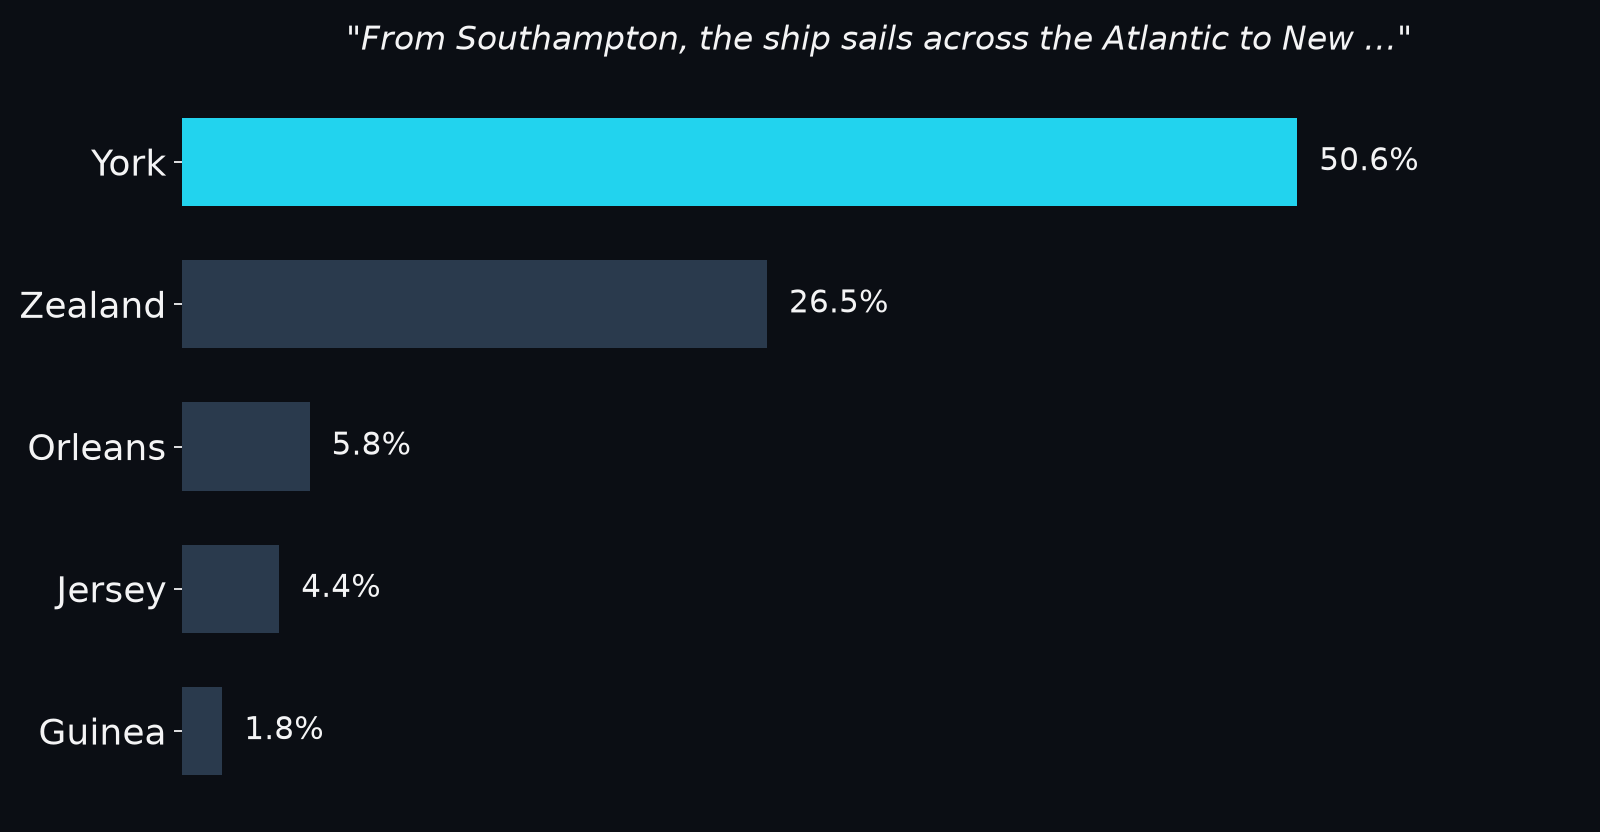
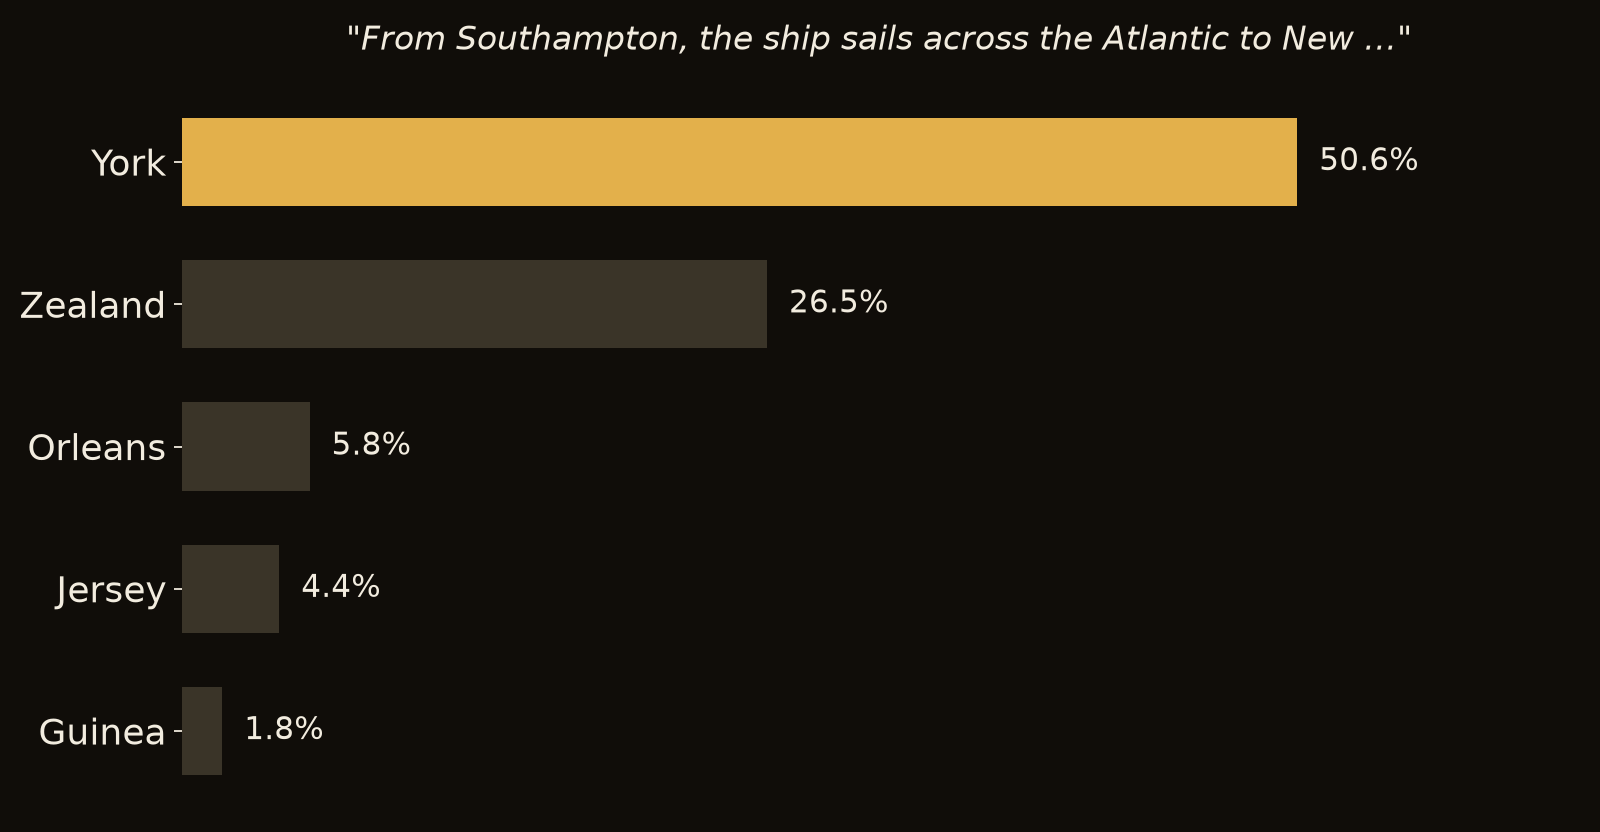
style(deck): warm amber palette + conference-size type; trim copy to fit
Claude-Session: https://claude.ai/code/session_01VjLUBXns3MZL4iHGtcKJqR

diff --git a/style.css b/style.css
@@ -10,19 +10,19 @@
 @import '@fontsource/inter/latin-600.css';
 
 :root {
-  --talk-accent: #22d3ee;
-  --ink: #eceff4;
-  --ink-dim: #8b95a3;
-  --hairline: rgba(236, 239, 244, 0.16);
+  --talk-accent: #e3b04b;
+  --ink: #f2ecdf;
+  --ink-dim: #9a917f;
+  --hairline: rgba(242, 236, 223, 0.16);
 }
 
 .slidev-layout {
   font-family: 'Inter', sans-serif;
   background:
-    radial-gradient(1px 1px at 14% 22%, rgba(236, 239, 244, 0.16) 50%, transparent 51%),
-    radial-gradient(1px 1px at 82% 16%, rgba(236, 239, 244, 0.12) 50%, transparent 51%),
-    radial-gradient(1px 1px at 62% 78%, rgba(34, 211, 238, 0.12) 50%, transparent 51%),
-    radial-gradient(ellipse at 50% -10%, #131926 0%, #0b0e14 55%, #090b10 100%);
+    radial-gradient(1px 1px at 14% 22%, rgba(245, 239, 228, 0.14) 50%, transparent 51%),
+    radial-gradient(1px 1px at 82% 16%, rgba(245, 239, 228, 0.10) 50%, transparent 51%),
+    radial-gradient(1px 1px at 62% 78%, rgba(227, 176, 75, 0.14) 50%, transparent 51%),
+    radial-gradient(ellipse at 50% -10%, #1a1610 0%, #100d09 55%, #0b0907 100%);
   color: var(--ink);
   padding: 3.4rem 3.8rem;
 }
@@ -30,7 +30,7 @@
 .slidev-layout h1 {
   font-family: 'Fraunces', serif;
   font-weight: 600;
-  font-size: 2.7rem;
+  font-size: 3.3rem;
   line-height: 1.12;
   letter-spacing: -0.01em;
   color: var(--ink);
@@ -48,7 +48,7 @@
 
 /* kicker — small caps line above the title */
 .kicker {
-  font-size: 0.78rem;
+  font-size: 0.92rem;
   font-weight: 600;
   letter-spacing: 0.32em;
   text-transform: uppercase;
@@ -110,7 +110,7 @@
   bottom: 6rem;
   border: 1px solid var(--talk-accent);
   border-radius: 0.6rem 0.6rem 0.1rem 0.6rem;
-  background: rgba(34, 211, 238, 0.05);
+  background: rgba(227, 176, 75, 0.06);
   padding: 0.5rem 0.9rem;
   font-size: 0.92rem;
   font-style: italic;
@@ -172,10 +172,10 @@
   text-transform: uppercase;
 }
 .ring.guard {
-  border: 1px dashed rgba(244, 211, 100, 0.5);
+  border: 1px dashed rgba(140, 190, 220, 0.5);
 }
 .ring.guard > .ring-label {
-  color: #f4d364;
+  color: #8cbedc;
 }
 .ring.harness {
   border: 1px solid var(--hairline);
@@ -186,7 +186,7 @@
 }
 .ring.engine {
   border: 1px solid var(--talk-accent);
-  background: rgba(34, 211, 238, 0.06);
+  background: rgba(227, 176, 75, 0.07);
   margin-top: 0.9rem;
   text-align: center;
   font-family: 'Fraunces', serif;
@@ -226,3 +226,15 @@
   color: var(--ink-dim);
   opacity: 0.7;
 }
+
+
+/* conference legibility — scale up common text sizes */
+.slidev-layout .text-lg { font-size: 1.35rem; line-height: 1.5; }
+.slidev-layout .text-xl { font-size: 1.55rem; line-height: 1.45; }
+.slidev-layout .text-2xl { font-size: 1.95rem; line-height: 1.4; }
+.slidev-layout .text-3xl { font-size: 2.5rem; }
+.slidev-layout .text-base { font-size: 1.2rem; }
+.slidev-layout .text-sm { font-size: 1.05rem; }
+.rows > * { padding: 0.8rem 0; }
+.round-timer { font-size: 6rem; }
+.credit { font-size: 0.72rem; }

diff --git a/slides.md b/slides.md
@@ -117,7 +117,7 @@ During each section,<br>**write down at least one question:**
 <div class="rows mt-4">
 <div>something you <b>don't understand</b></div>
 <div>something that makes you <b>wonder</b></div>
-<div>something you want to <b>know more</b> about</div>
+<div>something you want to <b>know more</b> of</div>
 </div>
 
 <div class="mt-4 accent">it can be anything.</div>
@@ -635,7 +635,7 @@ That's the "built on our written world" part. Three steps.
 <div class="rows text-lg max-w-3xl">
   <div>the raw material: the public web · books · articles · code</div>
   <div class="accent"><b>"well over 100,000 years of nonstop reading, around the clock"</b></div>
-  <div v-click>what it read is what it learned <span class="dim">— bias rides in with the data<br>(and: whose text was this? — the ethical question in the courts right now)</span></div>
+  <div v-click>what it read is what it learned <span class="dim">— bias rides in with the data (whose text was it? — now in court)</span></div>
   <div v-click>the exact mix is a <b>trade secret</b> — one training run: <b>$78M – $490M</b></div>
 </div>
 
@@ -669,11 +669,10 @@ train — per model.
 
 <div class="grid grid-cols-[3fr_2fr] gap-10 items-start">
 <div class="rows text-lg">
-  <div>start with <b>random</b> numbers → billions of tiny corrections</div>
-  <div class="dim italic">"a machine with billions of dials — training is the machine turning its <b>own</b> dials, a tiny nudge per example"</div>
+  <div>start with <b>random</b> numbers → billions of nudges</div>
+  <div class="dim italic">"the machine turns its <b>own</b> billions of dials, a nudge per example"</div>
   <div v-click>nobody programs the numbers in → <b class="accent">machine learning</b></div>
-  <div v-click>it kept the <b>patterns, not the pages</b> · every run ends up slightly different</div>
-  <div v-click>only possible in parallel → GPUs, data centers</div>
+  <div v-click>it kept the <b>patterns, not the pages</b> · GPUs, data centers</div>
 </div>
 <img :src="'/photos/dials.jpg'" class="photo h-44 w-full mt-2" />
 </div>
@@ -860,9 +859,9 @@ magic after all.
 
 **the riverbed**
 
-<img :src="'/photos/riverbed.jpg'" class="photo h-36 w-full my-3" />
+<img :src="'/photos/riverbed.jpg'" class="photo h-32 w-full my-3" />
 
-training carves the riverbed — every answer is new water,<br>and water <i>always</i> finds a way down
+training carves the riverbed —<br>new water <i>always</i> finds a way down
 
 <div class="accent mt-3 text-xl" style="font-family:'Fraunces',serif;">plausible ≠ true</div>
 
@@ -872,10 +871,9 @@ training carves the riverbed — every answer is new water,<br>and water <i>alwa
 **…and it rolls dice**
 
 sometimes a less likely word wins<br>
-<span class="dim">(the knob is called temperature)</span>
+<span class="dim">(the knob: temperature)</span>
 
-training made the models differ from <i>each other</i> —<br>
-the dice make the <i>same</i> model answer differently each time
+training made the models differ from <i>each other</i> —<br>the dice make the <i>same</i> model vary
 
 </div>
 </div>
@@ -1020,9 +1018,9 @@ wheel is always in your hands.
 
 <div class="grid grid-cols-[3fr_2fr] gap-10 items-start">
 <div class="rows text-lg">
-  <div>Claude the chat app & Claude Code — <b>same model behind</b> <span class="dim">· same for ChatGPT and everything built on GPT</span></div>
+  <div>Claude chat & Claude Code — <b>same model behind</b> <span class="dim">(ChatGPT: same trick)</span></div>
   <div v-click>most "AI startups" = a new car around someone else's engine <span class="dim">(a wrapper)</span></div>
-  <div v-click>the labs — OpenAI · Anthropic · Google · Mistral — each build their <b>own engines</b>, in versions & sizes</div>
+  <div v-click>the labs each build their <b>own engines</b>, in versions & sizes</div>
 </div>
 <img :src="'/photos/engine.jpg'" class="photo h-44 w-full mt-2" />
 </div>
